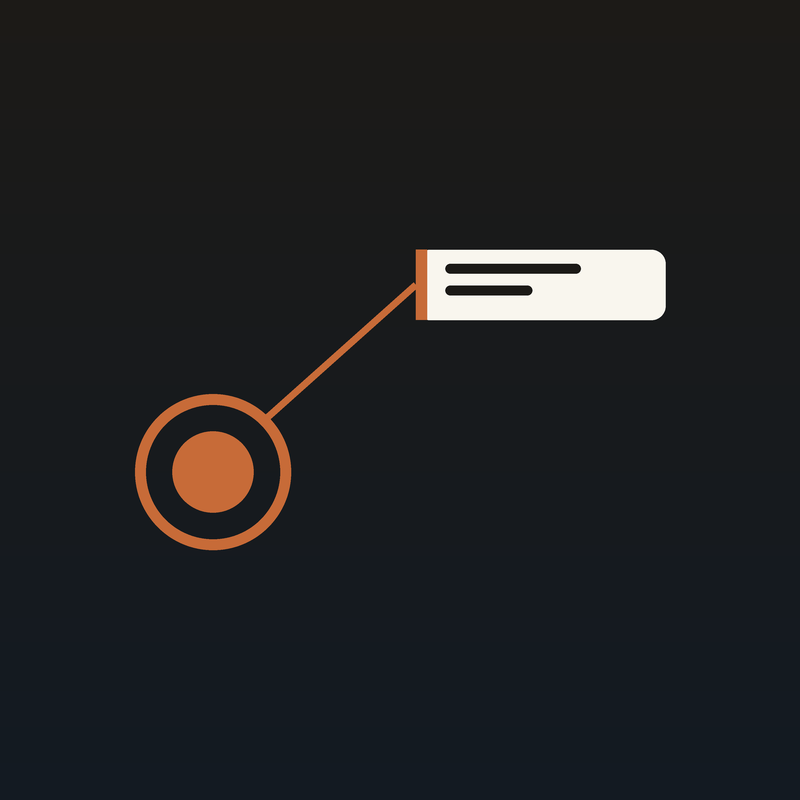
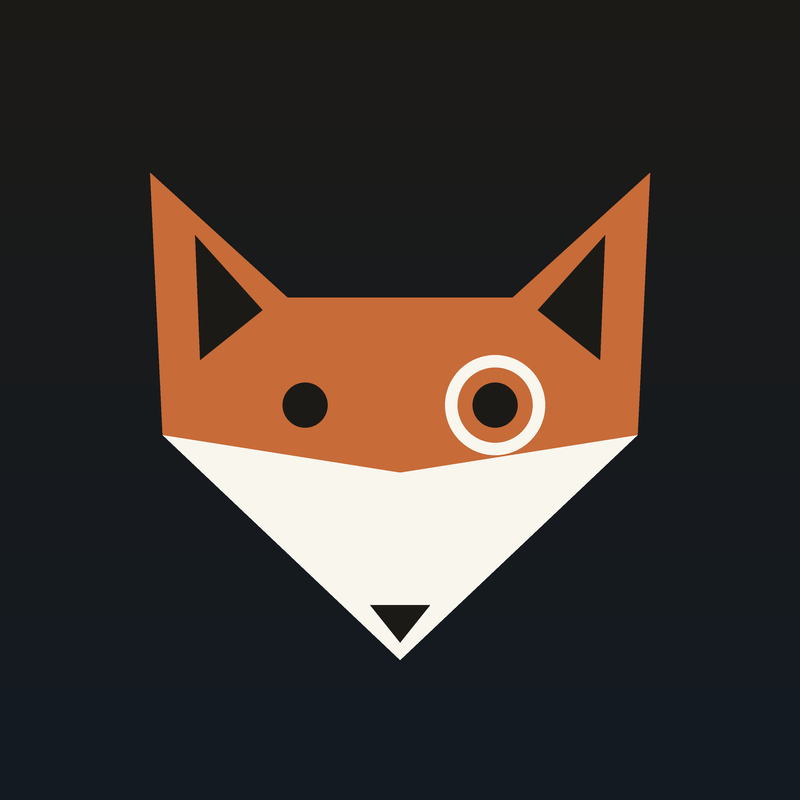
Vault: ridnois-ThinkPad-T495 2026-10-04 21:11:03

Changed region(s): [[0.1562, 0.2188, 0.8438, 0.8438]]

diff --git a/System/scripts/make_brand.py b/System/scripts/make_brand.py
@@ -1,6 +1,6 @@
 #!/usr/bin/env python3
 """Draws the channel's brand assets into System/Brand/ (run from the vault root): python3 System/scripts/make_brand.py
-  avatar.png   800 px profile picture; avatar.svg the vector source
+  avatar.png   800 px profile picture (the copper fox)
   banner.png   2560 x 1440 channel banner (the text sits in the 1546 x 423 centre safe area)
 Colours and fonts are the tokens of System/Content/Channel playbook.md §3.1."""
 from PIL import Image, ImageDraw, ImageFont
@@ -41,41 +41,47 @@ def draw_mark(d, cx, cy, s, label=True):
             d.rounded_rectangle([x2 + bh * 0.42, y2 - bh / 2 + bh * k_ - bh * 0.07, x2 + bh * 0.42 + (bw - bh * 0.8) * wfrac, y2 - bh / 2 + bh * k_ + bh * 0.07], radius=bh * 0.07, fill=INK)
 
 
+FOX = [  # (polygon, colour) in a -1..1 box: head, white cheeks, inner ears, nose; the right eye is the callout ring-and-dot
+    ([(-1, -.95), (-.45, -.45), (.45, -.45), (1, -.95), (.95, .1), (0, 1), (-.95, .1)], COPPER),
+    ([(-.95, .1), (0, .25), (.95, .1), (0, 1)], PAPER),
+    ([(-.82, -.7), (-.55, -.4), (-.8, -.2)], INK), ([(.82, -.7), (.55, -.4), (.8, -.2)], INK),
+    ([(-.12, .78), (.12, .78), (0, .93)], INK),
+]
+
+
+def draw_fox(d, cx, cy, s):
+    """s = half-width in px. A fox that is also an annotation: its right eye is the channel's ring-and-dot."""
+    for pts, col in FOX:
+        d.polygon([(cx + x * s, cy + y * s) for x, y in pts], fill=col)
+    e = lambda x, y, r, **k: d.ellipse([cx + (x - r) * s, cy + (y - r) * s, cx + (x + r) * s, cy + (y + r) * s], **k)
+    e(-.38, -.02, .09, fill=INK)
+    e(.38, -.02, .2, outline=PAPER, width=max(2, round(s * 0.05)))
+    e(.38, -.02, .09, fill=INK)
+
+
 def small(img, w, h):
     return img.resize((w, h), Image.LANCZOS)
 
 
-# avatar 800: the whole annotation (ring, dot, leader, label) inside the circular crop (radius 400)
+# avatar 800: the fox centred inside the circular crop
 A = ground(800 * SS, 800 * SS)
-draw_mark(ImageDraw.Draw(A), 213 * SS, 472 * SS, 78 * SS)
+draw_fox(ImageDraw.Draw(A), 400 * SS, 410 * SS, 250 * SS)
 small(A, 800, 800).save(f"{OUT}/avatar.png")
-svg = '''<svg xmlns="http://www.w3.org/2000/svg" viewBox="0 0 800 800">
-<defs><linearGradient id="g" x1="0" y1="0" x2="0" y2="1"><stop offset="0" stop-color="#1c1a17"/><stop offset="1" stop-color="#0b1a2b"/></linearGradient></defs>
-<rect width="800" height="800" fill="url(#g)"/>
-<g transform="translate(-87 -28)">
-<circle cx="300" cy="500" r="78" fill="none" stroke="#c76b38" stroke-width="11"/>
-<circle cx="300" cy="500" r="40.6" fill="#c76b38"/>
-<line x1="355.2" y1="444.8" x2="502.8" y2="313" stroke="#c76b38" stroke-width="7"/>
-<rect x="502.8" y="278" width="249.6" height="70" rx="14" fill="#f9f6ee"/>
-<rect x="502.8" y="278" width="11" height="70" fill="#c76b38"/>
-<rect x="532" y="291" width="154" height="10" rx="5" fill="#1c1a17"/>
-<rect x="532" y="318" width="99" height="10" rx="5" fill="#1c1a17"/>
-</g>
-</svg>
-'''
-open(f"{OUT}/avatar.svg", "w").write(svg)
+if os.path.exists(f"{OUT}/avatar.svg"):
+    os.remove(f"{OUT}/avatar.svg")                # the vector twin was the old mark; PNG is what Studio takes
 
-# banner 2560 x 1440: wordmark, tagline and mark inside the centre safe area (1546 x 423)
+# banner 2560 x 1440: fox, wordmark and tagline inside the centre safe area (1546 x 423)
 Wb, Hb = 2560, 1440
-B = ground(Wb * 1, Hb * 1).convert("RGBA")
-bs = Image.new("RGBA", (Wb * 2, Hb * 2), (0, 0, 0, 0))
-d = ImageDraw.Draw(bs)
-draw_mark(d, 851 * 2, 720 * 2, 62 * 2, label=False)
-bs = bs.resize((Wb, Hb), Image.LANCZOS)
-B = Image.alpha_composite(B, bs)
+B = ground(Wb, Hb)
+bs = Image.new("RGB", (Wb * 2, Hb * 2), (0, 0, 0))
+mask = Image.new("L", bs.size, 0)
+big = Image.new("RGBA", bs.size, (0, 0, 0, 0))
+draw_fox(ImageDraw.Draw(big), 880 * 2, 720 * 2, 130 * 2)
+big = big.resize((Wb, Hb), Image.LANCZOS)
+B = B.convert("RGBA"); B.alpha_composite(big)
 d = ImageDraw.Draw(B)
-f1, f2 = ImageFont.truetype(BOLD, 190), ImageFont.truetype(REG, 54)
-d.text((981, 700), "Cutaway", font=f1, fill=PAPER, anchor="lm")
-d.text((991, 850), "HOW IT WORKS.  WITH SOURCES.", font=f2, fill=COPPER, anchor="lm")
+f1, f2 = ImageFont.truetype(BOLD, 170), ImageFont.truetype(REG, 50)
+d.text((1050, 690), "Cutaway", font=f1, fill=PAPER, anchor="lm")
+d.text((1058, 830), "SCIENCE, CUT OPEN.  WITH SOURCES.", font=f2, fill=COPPER, anchor="lm")
 B.convert("RGB").save(f"{OUT}/banner.png")
 print("ok", os.listdir(OUT))

diff --git a/System/scripts/check_vault.py b/System/scripts/check_vault.py
@@ -65,6 +65,8 @@ INVARIANTS = [
     ("System/Content/Channel playbook.md", "On-screen design system", "text box and highlight design written down"),
     ("System/Content/Channel playbook.md", "Mission (one sentence)", "channel mission"),
     ("System/Content/Channel playbook.md", "Name: Cutaway", "channel name"),
+    ("System/Content/Channel playbook.md", "geometric copper fox", "brand mascot (user, 4 Oct 2026)"),
+    ("System/Content/Channel playbook.md", "Science, cut open", "science tagline"),
     # Superconductors feedback, 4 Oct 2026
     ("System/Guidelines for new scripts.md", "Plain-words test", "hook in plain words"),
     ("System/Guidelines for new scripts.md", "One thread, a fact budget", "theme line and fact budget"),

diff --git a/System/Content/Channel playbook.md b/System/Content/Channel playbook.md
@@ -2,7 +2,7 @@
 type: research
 created: 2026-10-04
 updated: 2026-10-04
-status: v3 · in-video branding removed (progress bar, mark, series tag: Superconductors feedback, 4 Oct 2026); v2 name, avatar, banner and sound design; v1 requested by the user (4 Oct 2026); YouTube statements fetched from YouTube Help that day, everything marked "hypothesis" is untested on this channel
+status: v4 · brand redesign: fox mascot, science as the topic (user, 4 Oct 2026); v3 · in-video branding removed (progress bar, mark, series tag: Superconductors feedback, 4 Oct 2026); v2 name, avatar, banner and sound design; v1 requested by the user (4 Oct 2026); YouTube statements fetched from YouTube Help that day, everything marked "hypothesis" is untested on this channel
 tags: [research, youtube, engagement, design, branding, mission, guidelines]
 ---
 
@@ -93,7 +93,7 @@ Top 10 %: free (the title bar). Subject between 15 % and 60 % of the height. **C
 
 **Promise to the viewer:** you will leave knowing *how* something works and *why* it is hard, and you can check every number.
 
-**Audience:** curious adults who like physics, engineering and materials; they do not want hype and they notice mistakes.
+**Audience:** curious adults who like science (physics, materials, biology, space, the body); they do not want hype and they notice mistakes.
 
 **Brand pillars (each is a rule the vault already enforces):**
 
@@ -107,9 +107,9 @@ Top 10 %: free (the title bar). Subject between 15 % and 60 % of the height. **C
 
 **Voice:** the curious specialist ([[Channel identity]]): tells you what you need to know, never narrates a story.
 
-**Visual identity:** copper accent on paper-white boxes over real images, Noto Sans Display Bold, one gradient family per topic, the **callout dot with its ring as the logo mark** (a copper dot inside a thin ring on a dark ground: it is already the channel's recurring device). Avatar: that mark. Banner: the mark, the one-line mission, a photo-and-callout crop.
+**Visual identity:** copper accent on paper-white boxes over real images, Noto Sans Display Bold, one gradient family per topic. **Mascot and logo: a geometric copper fox** (user, 4 Oct 2026: *"I want a redesign for the brand, add an animal into it and science as the topic"*): the fox is the curious specialist (fox-copper is already the signature colour) and its right eye is the callout ring-and-dot, so the old mark survives inside the new one. Avatar: the fox head. Banner: fox, wordmark, tagline. The fox lives on the channel page only, never inside a Short.
 
-**Name: Cutaway.** Tagline: **"How it works. With sources."** (user, 4 Oct 2026: *"the mission is good, invent something catchy and well positioned for channel name"*.) Why it fits: a *cutaway* is the diagram that cuts the outside away to show the inside, which is exactly what the channel does with a mechanism (the schematics and the callouts that name the parts); it is one word, easy to say and spell, and it says nothing about physics only, so it survives the move to materials, biology or software. Wordmark: "Cutaway" in Noto Sans Display Bold, paper-white on ink, with the copper ring-and-dot to its left.
+**Name: Cutaway.** Tagline: **"Science, cut open. With sources."** (was "How it works. With sources.") (user, 4 Oct 2026: *"the mission is good, invent something catchy and well positioned for channel name"*.) Why it fits: a *cutaway* is the diagram that cuts the outside away to show the inside, which is exactly what the channel does with a mechanism (the schematics and the callouts that name the parts); it is one word, easy to say and spell, and the topic is **science in general** (physics, materials, biology, space), not physics only. Wordmark: "Cutaway" in Noto Sans Display Bold, paper-white on ink, with the fox to its left.
 
 **Handle (not verified):** the fetch tool cannot read YouTube channel pages, so **availability on YouTube, TikTok and Instagram is unchecked**. Try in this order in YouTube Studio: `@cutaway`, `@cutawayhq`, `@watchcutaway`, `@cutaway.science`; use the first free one on all three platforms. YouTube handles are unique and the name or handle can be changed twice per 14 days (verified, YouTube Help). Fallback names if "Cutaway" is taken or too crowded: **Part Names**, **Show the Part**, **Teardown Minute**. **Trademark and search crowding are not researched**: search "Cutaway" on YouTube before committing.
 
@@ -117,8 +117,8 @@ Top 10 %: free (the title bar). Subject between 15 % and 60 % of the height. **C
 
 | File | Use | Design |
 | --- | --- | --- |
-| `avatar.png` (800 px) and `avatar.svg` | profile picture | an annotation: a copper ring with a dot, a leader line, a paper label with two text lines, on a dark ground that fades from ink to the cryogenic navy; centred inside the circular crop |
-| `banner.png` (2560 × 1440) | channel banner | ring-and-dot, "Cutaway" and the tagline, centred in the middle safe area (**YouTube's 1546 × 423 safe-area size is from memory, not verified**: check the Studio preview) |
+| `avatar.png` (800 px) | profile picture | the copper fox head (paper cheeks, ink ears and nose, right eye = ring-and-dot lens) on a ground that fades from ink to the cryogenic navy; centred inside the circular crop |
+| `banner.png` (2560 × 1440) | channel banner | fox, "Cutaway" and the tagline, centred in the middle safe area (**YouTube's 1546 × 423 safe-area size is from memory, not verified**: check the Studio preview) |
 
 **The Short itself carries no branding** (no progress bar, mark or series tag; removed on the user's feedback). It stays recognisable through the cards, callouts, copper highlight and captions (§3.1). Series names (The mechanism, The number, The catch) are content formats for playlists and descriptions only. *Interpretation to confirm:* the feedback row called "Brand layer" listed avatar and name too; the agent read the verdict as **about the video**, and kept the channel's name, avatar and banner (the channel page needs them).
 

diff --git a/YouTube Channel.md b/YouTube Channel.md
@@ -36,7 +36,7 @@ YouTube Channel.md
 │   ├── Visual/     Illustration pipeline · On-screen text style · Per-scene prompt
 │   ├── Editing/    Blender editing · Transitions and effects
 │   ├── Models/     Channel models (prices)
-│   ├── Brand/      avatar · banner · mark (drawn by scripts/make_brand.py): channel name **Cutaway**, see [[Channel playbook]] §4
+│   ├── Brand/      avatar (copper fox) · banner (drawn by scripts/make_brand.py): channel name **Cutaway**, see [[Channel playbook]] §4
 │   └── scripts/    build_video.py (the builder) · stock_photos.py · replicate_helper.py · check_vault.py · legacy build_*.py
 ├── Research/       general notes on models and styles, unrelated to a script
 └── Videos/         one folder per video: Status, scripts, research

diff --git a/System/Process/Feedback loop.md b/System/Process/Feedback loop.md
@@ -59,6 +59,7 @@ tags: [research, youtube, process, feedback, vault]
 | 4 Oct 2026 | One image every 4 to 6 s (12 to 14 plates) | One image every 3 to 4 s (16 to 20 plates), half real photos, 2 to 3 candidates per scene | [[Illustration pipeline]], [[Shorts quality bar]] §4 |
 | 4 Oct 2026 | Captions at 104 px | 88 px | [[On-screen text style]] |
 | 4 Oct 2026 | A proposed channel name and avatar "to decide" | **Cutaway**, "How it works. With sources.", the ring-and-dot avatar | [[Channel playbook]] §4 |
+| 4 Oct 2026 | *"redesign for the brand, add an animal into it and science as the topic"* | copper fox mascot, tagline "Science, cut open. With sources.", science-wide audience | [[Channel playbook]] §4 |
 
 ## 4. The coherence check
 
